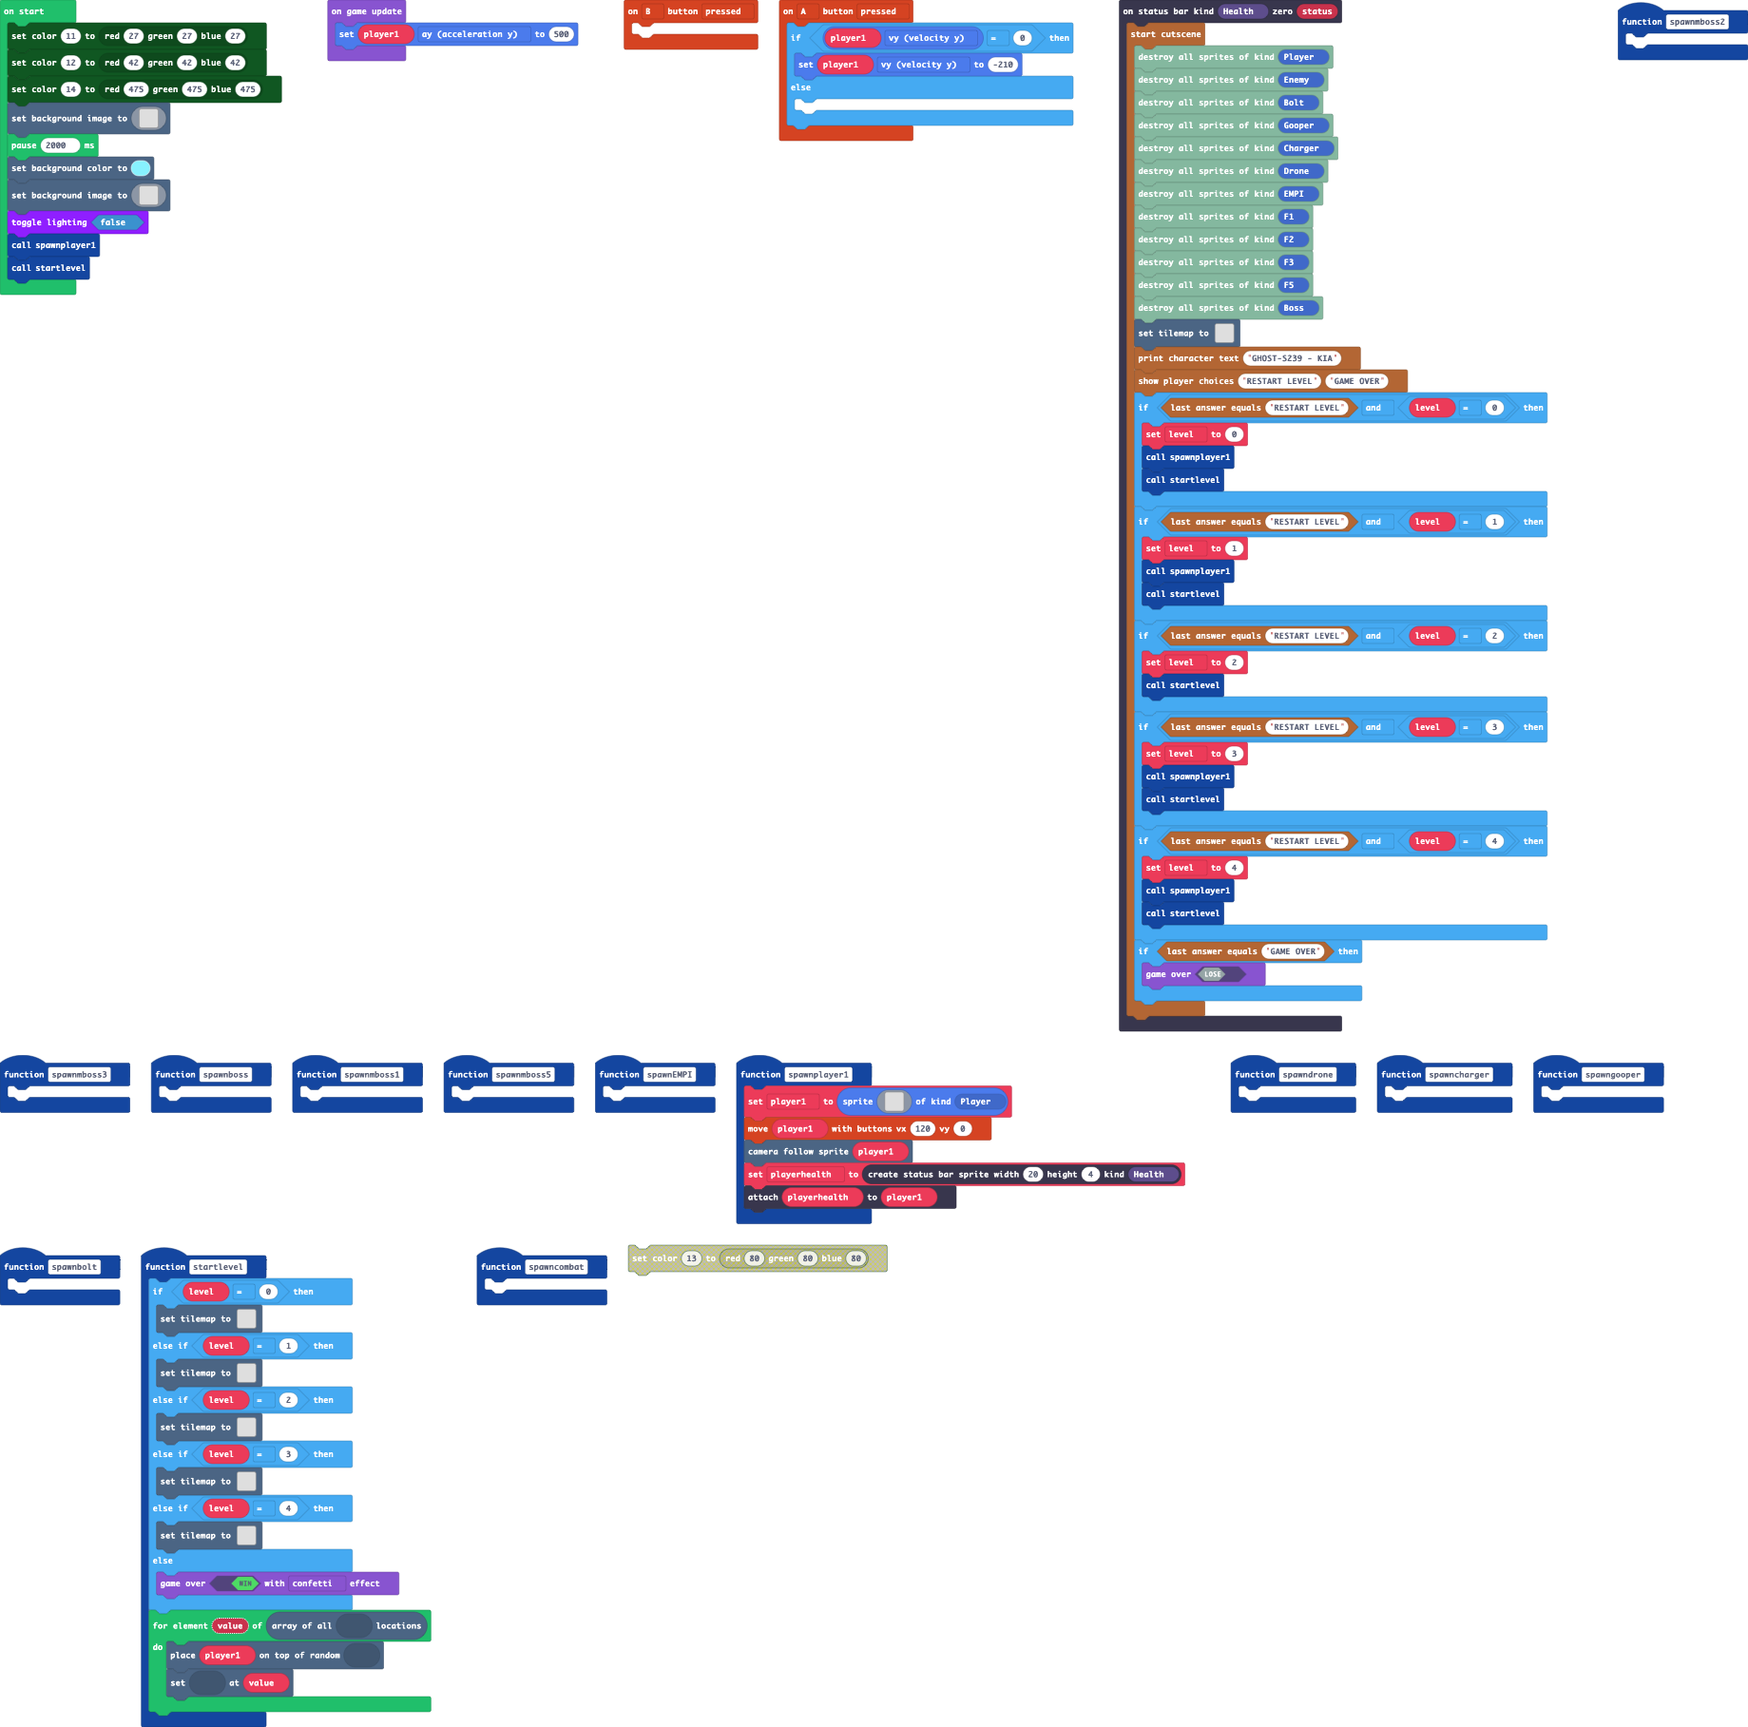
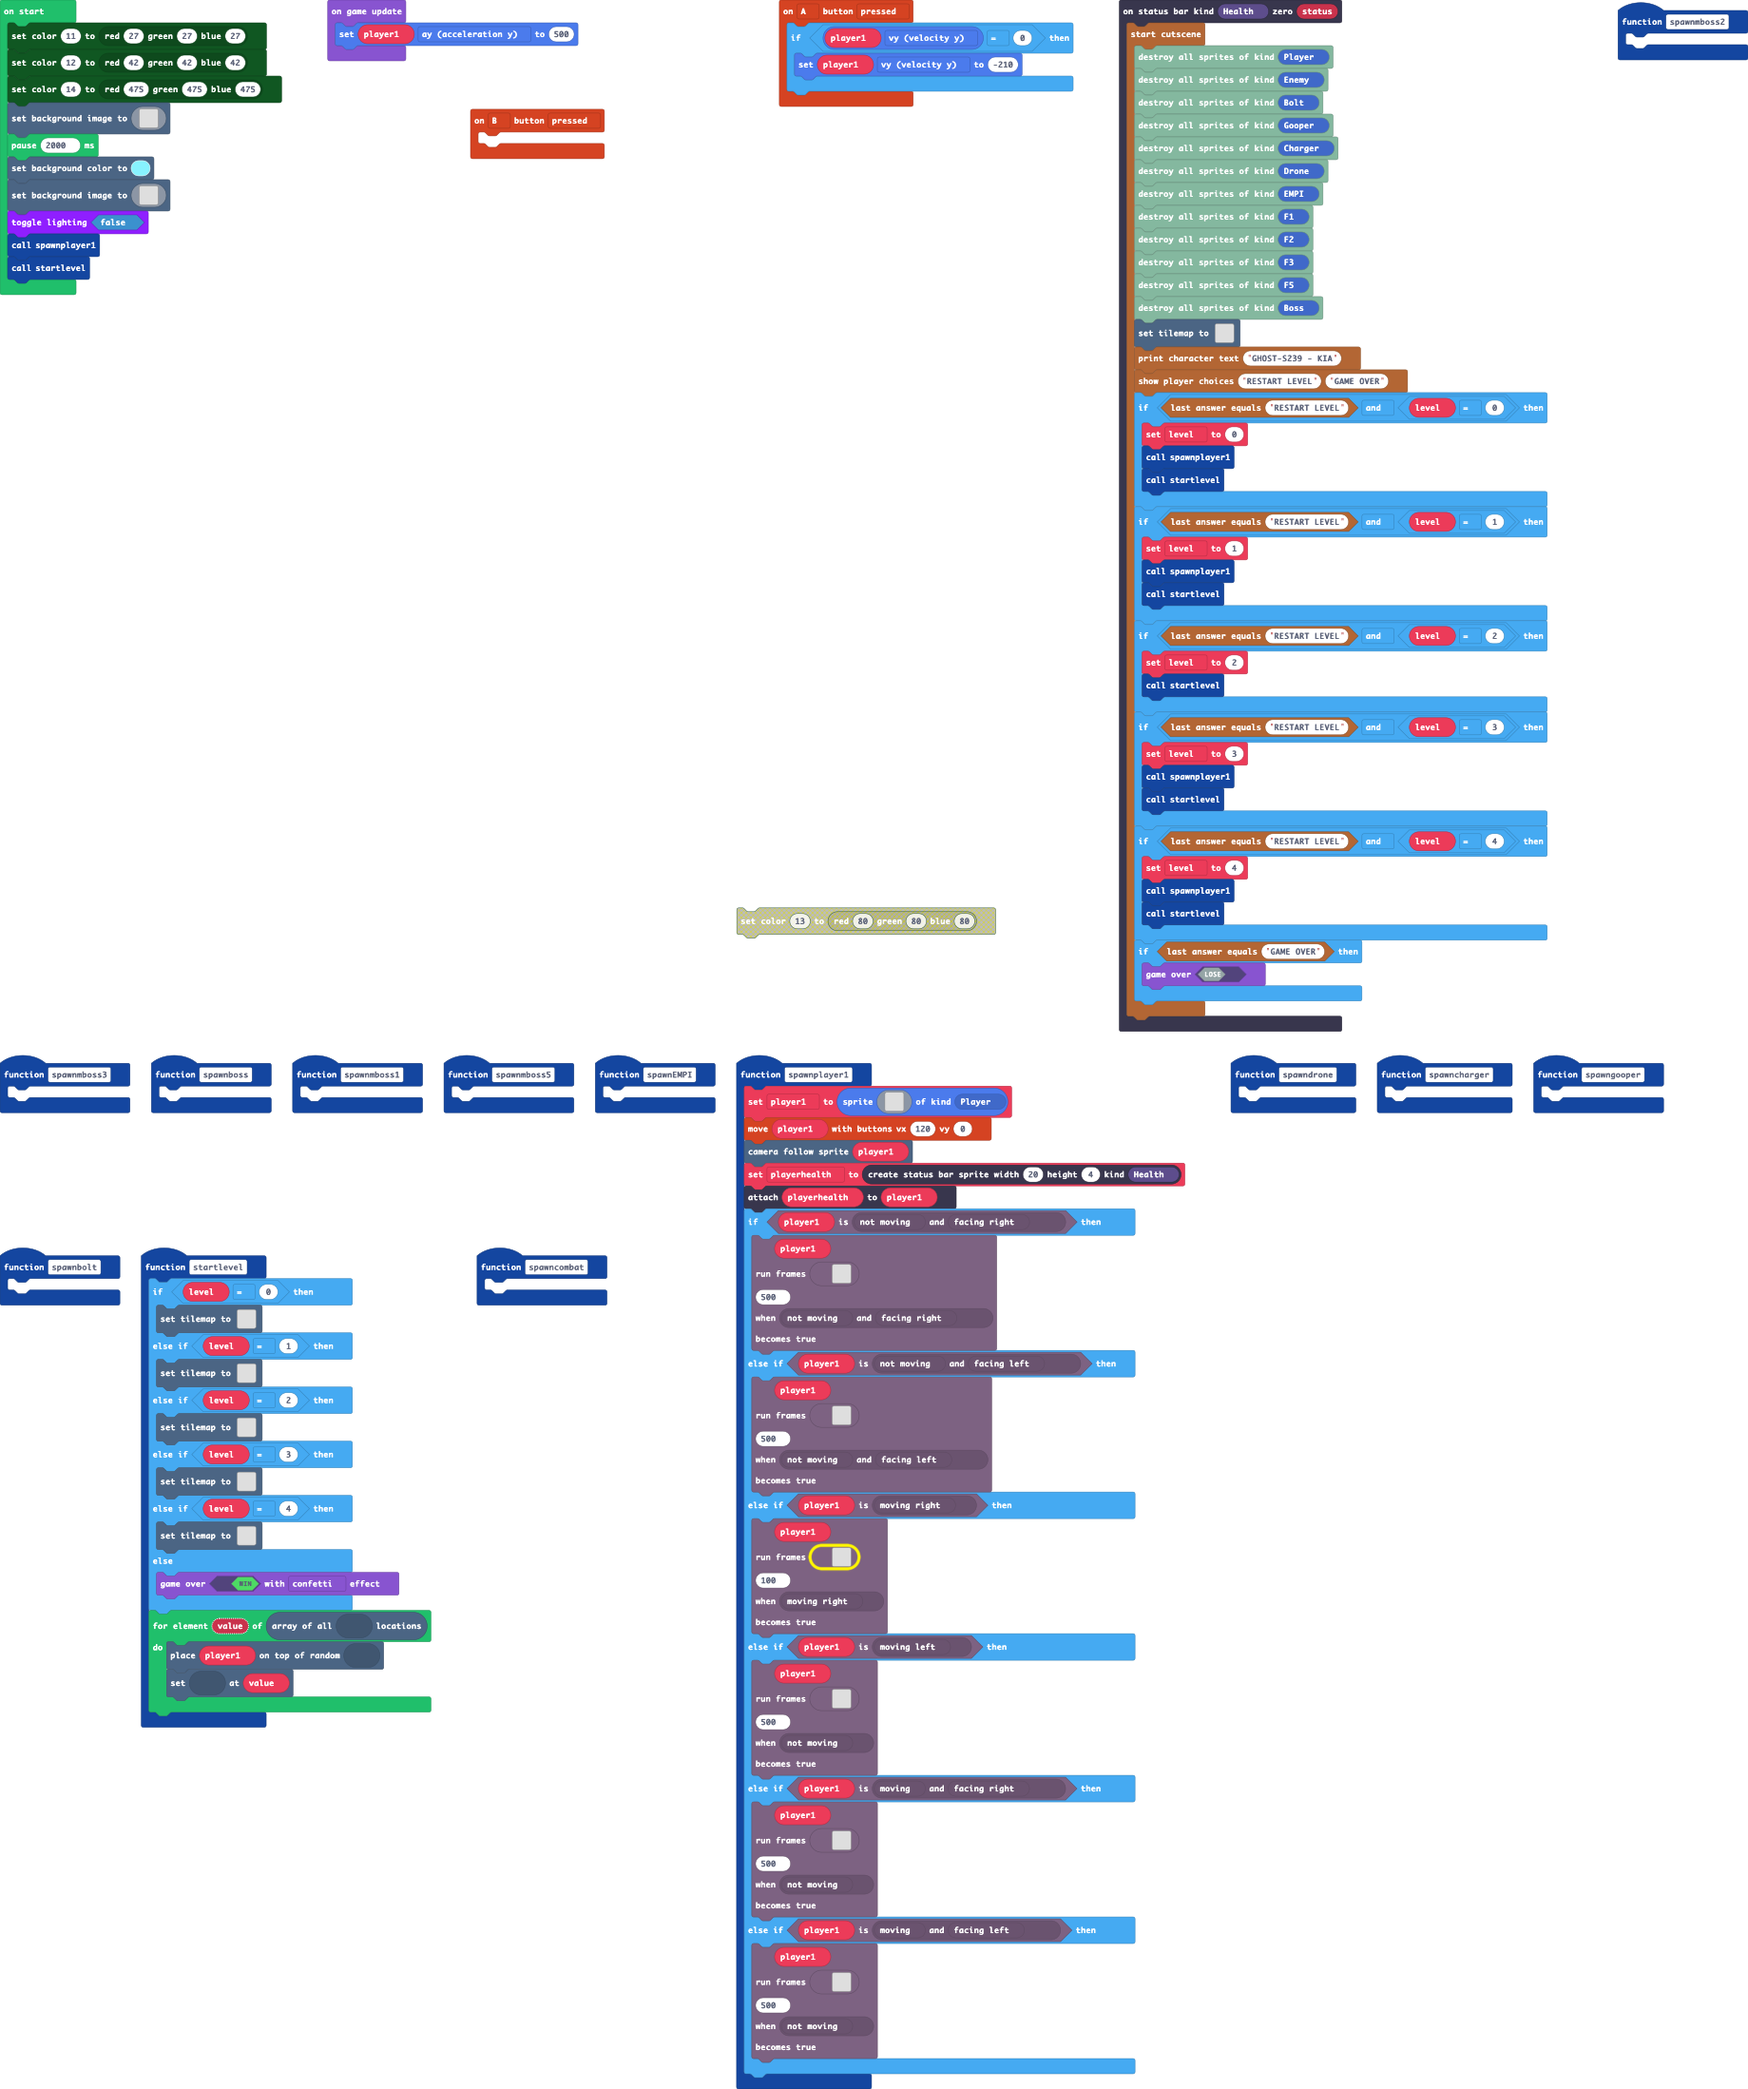
Update main.blocks, main.ts

diff --git a/main.ts b/main.ts
@@ -54,6 +54,224 @@ function spawnplayer1 () {
     scene.cameraFollowSprite(player1)
     playerhealth = statusbars.create(20, 4, StatusBarKind.Health)
     playerhealth.attachToSprite(player1)
+    if (character.matchesRule(player1, character.rule(Predicate.NotMoving, Predicate.FacingRight))) {
+        character.runFrames(
+        player1,
+        [img`
+            .........................
+            .........................
+            .........................
+            .........................
+            .........................
+            .........................
+            .........c44444..........
+            ........c45e111..........
+            .......f54e1111..........
+            .......ff4e5515..........
+            ........cc4e151..........
+            .........cc444c..........
+            .......1bfcccff..........
+            ......bb1bdccfff..f......
+            .....1bbb1ffddffffff.....
+            .....b1bbffffffffff......
+            ......b1ccbccfffcbff22222
+            ......cccbbcddffcbc......
+            .......cbbbcddc.bcc......
+            ........ccd5dcc..........
+            ........5ccccc5..........
+            .......fbbbbbbb..........
+            ......fddddbbddd.........
+            .....fdddcccccddd........
+            ......d5cc...cc5dd.......
+            ......ccc.....cccc.......
+            ......bfb......bbf.......
+            ......bfb......bbf.......
+            .....bbbb......bbbb......
+            .....cccc......cccc......
+            `],
+        500,
+        character.rule(Predicate.NotMoving, Predicate.FacingRight)
+        )
+    } else if (character.matchesRule(player1, character.rule(Predicate.NotMoving, Predicate.FacingLeft))) {
+        character.runFrames(
+        player1,
+        [img`
+            .........................
+            .........................
+            .........................
+            .........................
+            .........................
+            .........................
+            ..........44444c.........
+            ..........111e54c........
+            ..........1111e45f.......
+            ..........5155e4ff.......
+            ..........151e4cc........
+            ..........c444cc.........
+            ..........ffcccfb1.......
+            ......f..fffccdb1bb......
+            .....ffffffddff1bbb1.....
+            ......ffffffffffbb1b.....
+            22222ffbcfffccbcc1b......
+            ......cbcffddcbbccc......
+            ......ccb.cddcbbbc.......
+            ..........ccd5dcc........
+            ..........5ccccc5........
+            ..........bbbbbbbf.......
+            .........dddbbddddf......
+            ........dddcccccdddf.....
+            .......dd5cc...cc5d......
+            .......cccc.....ccc......
+            .......fbb......bfb......
+            .......fbb......bfb......
+            ......bbbb......bbbb.....
+            ......cccc......cccc.....
+            `],
+        500,
+        character.rule(Predicate.NotMoving, Predicate.FacingLeft)
+        )
+    } else if (character.matchesRule(player1, character.rule(Predicate.MovingRight))) {
+        character.runFrames(
+        player1,
+        [img`
+            .........................
+            .........................
+            .........................
+            .........................
+            .........................
+            .........................
+            .........c44444..........
+            ........c45e111..........
+            .......f54e1111..........
+            .......ff4e5515..........
+            ........cc4e151..........
+            .........cc444c..........
+            .......1bfcccff..........
+            ......bb1bdccfff..f......
+            .....1bbb1ffddffffff.....
+            .....b1bbffffffffff......
+            ......b1ccbccfffcbff22222
+            ......cccbbcddffcbc......
+            .......cbbbcddc.bcc......
+            ........ccd5dcc..........
+            ........5ccccc5..........
+            .......fbbbbbbb..........
+            ......fddddbbddd.........
+            .....fdddcccccddd........
+            ......d5cc...cc5dd.......
+            ......ccc.....cccc.......
+            ......bfb......bbf.......
+            ......bfb......bbf.......
+            .....bbbb......bbbb......
+            .....cccc......cccc......
+            `,img`
+            .........................
+            .........................
+            .........................
+            .........................
+            .........................
+            .........................
+            .........c44444..........
+            ........c45e111..........
+            .......f54e1111..........
+            .......ff4e5515..........
+            ........cc4e151..........
+            .........cc444c..........
+            .......1bfcccff..........
+            ......bb1bdccfff..f......
+            .....1bbb1ffddffffff.....
+            .....b1bbffffffffff......
+            ......b1ccbccfffcbff22222
+            ......cccbbcddffcbc......
+            .......cbbbcddc.bcc......
+            ........ccd5dcc..........
+            ........5ccccc5..........
+            .......fbbbbbbb..........
+            ......fddddbbddd.........
+            .....fdddcccccddd........
+            ......d5cc...cc5dd.......
+            ......ccc.....cccc.......
+            ......bfb......bbf.......
+            ......bfb......bbf.......
+            .....bbbb......bbbb......
+            .....cccc......cccc......
+            `],
+        100,
+        character.rule(Predicate.MovingRight)
+        )
+    } else if (character.matchesRule(player1, character.rule(Predicate.MovingLeft))) {
+        character.runFrames(
+        player1,
+        [img`
+            . . . . . . . . . . . . . . . . 
+            . . . . . . . . . . . . . . . . 
+            . . . . . . . . . . . . . . . . 
+            . . . . . . . . . . . . . . . . 
+            . . . . . . . . . . . . . . . . 
+            . . . . . . . . . . . . . . . . 
+            . . . . . . . . . . . . . . . . 
+            . . . . . . . . . . . . . . . . 
+            . . . . . . . . . . . . . . . . 
+            . . . . . . . . . . . . . . . . 
+            . . . . . . . . . . . . . . . . 
+            . . . . . . . . . . . . . . . . 
+            . . . . . . . . . . . . . . . . 
+            . . . . . . . . . . . . . . . . 
+            . . . . . . . . . . . . . . . . 
+            . . . . . . . . . . . . . . . . 
+            `],
+        500,
+        character.rule(Predicate.NotMoving)
+        )
+    } else if (character.matchesRule(player1, character.rule(Predicate.Moving, Predicate.FacingRight))) {
+        character.runFrames(
+        player1,
+        [img`
+            . . . . . . . . . . . . . . . . 
+            . . . . . . . . . . . . . . . . 
+            . . . . . . . . . . . . . . . . 
+            . . . . . . . . . . . . . . . . 
+            . . . . . . . . . . . . . . . . 
+            . . . . . . . . . . . . . . . . 
+            . . . . . . . . . . . . . . . . 
+            . . . . . . . . . . . . . . . . 
+            . . . . . . . . . . . . . . . . 
+            . . . . . . . . . . . . . . . . 
+            . . . . . . . . . . . . . . . . 
+            . . . . . . . . . . . . . . . . 
+            . . . . . . . . . . . . . . . . 
+            . . . . . . . . . . . . . . . . 
+            . . . . . . . . . . . . . . . . 
+            . . . . . . . . . . . . . . . . 
+            `],
+        500,
+        character.rule(Predicate.NotMoving)
+        )
+    } else if (character.matchesRule(player1, character.rule(Predicate.Moving, Predicate.FacingLeft))) {
+        character.runFrames(
+        player1,
+        [img`
+            . . . . . . . . . . . . . . . . 
+            . . . . . . . . . . . . . . . . 
+            . . . . . . . . . . . . . . . . 
+            . . . . . . . . . . . . . . . . 
+            . . . . . . . . . . . . . . . . 
+            . . . . . . . . . . . . . . . . 
+            . . . . . . . . . . . . . . . . 
+            . . . . . . . . . . . . . . . . 
+            . . . . . . . . . . . . . . . . 
+            . . . . . . . . . . . . . . . . 
+            . . . . . . . . . . . . . . . . 
+            . . . . . . . . . . . . . . . . 
+            . . . . . . . . . . . . . . . . 
+            . . . . . . . . . . . . . . . . 
+            . . . . . . . . . . . . . . . . 
+            . . . . . . . . . . . . . . . . 
+            `],
+        500,
+        character.rule(Predicate.NotMoving)
+        )
+    }
 }
 function spawnmboss2 () {
 	
@@ -67,8 +285,6 @@ function spawncombat () {
 controller.A.onEvent(ControllerButtonEvent.Pressed, function () {
     if (player1.vy == 0) {
         player1.vy = -210
-    } else {
-    	
     }
 })
 function spawnbolt () {
